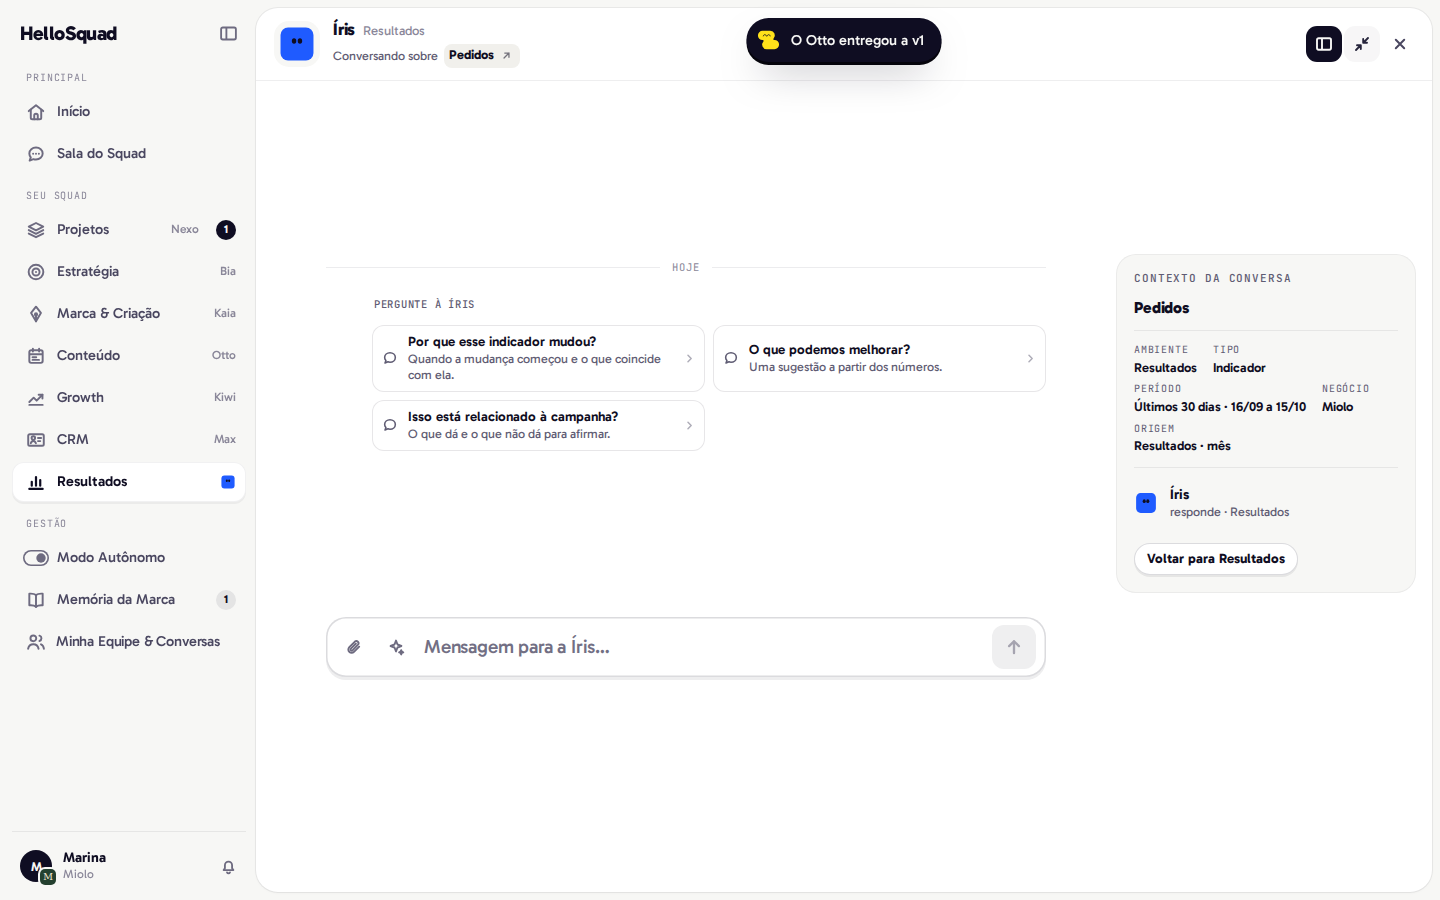
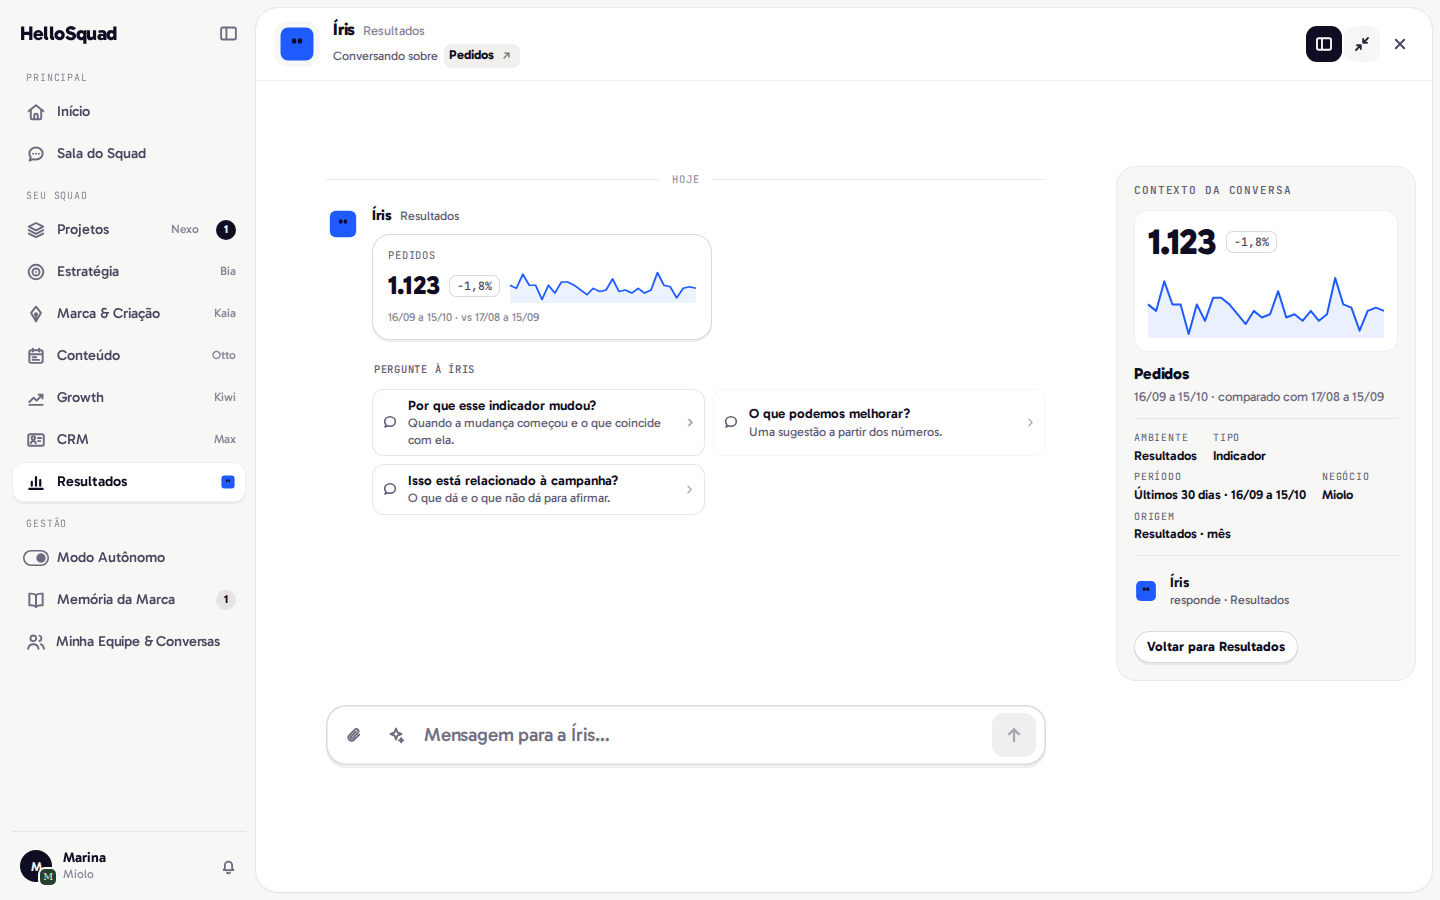
A2d: conversa do indicador abre com o número, a variação e a curva da série (P-09, P-10)

diff --git a/apps/web/components/env/results/ResultsEnvironment.tsx b/apps/web/components/env/results/ResultsEnvironment.tsx
@@ -17,6 +17,7 @@ import {
   PERIOD_DAYS,
   PERIODS,
   periodRanges,
+  pointsIn,
   seriesKey,
   summarize,
   type Summary,
@@ -114,6 +115,20 @@ function ResultsView({ business, series, last, analyses }: { business: string; s
   const talk = (s: MetricSeries) => {
     const title = L.label(s);
     const origin = t(`origin.${period}`);
+    // A2d (P-09/P-10): o número, a variação e a curva do período vão com a conversa, lidos da mesma série da página;
+    // sem número no período, a conversa abre sem o cartão (nunca um número inventado).
+    const sum = summaries.get(seriesKey(s));
+    const figure =
+      sum && sum.now !== null
+        ? {
+            value: L.num(sum.now),
+            delta: sum.variation === null ? null : L.signed(sum.variation),
+            up: sum.variation === null ? null : sum.variation >= 0,
+            points: pointsIn(s, current),
+            period: L.range(current.start, current.end),
+            previous: sum.daysBefore > 0 ? L.range(previous.start, previous.end) : null,
+          }
+        : undefined;
     const context: ConversationContextRef = {
       kind: "metric",
       label: title,
@@ -121,6 +136,7 @@ function ResultsView({ business, series, last, analyses }: { business: string; s
       period: periodText,
       origin,
       ref: { type: "metric", key: seriesKey(s), title, period: periodText, origin },
+      figure,
     };
     shell.openConversation({ conversationId: null, agent: "iris", context });
   };

diff --git a/apps/web/components/product/shell-context.tsx b/apps/web/components/product/shell-context.tsx
@@ -5,6 +5,7 @@ import type { AgentId } from "@hellosquad/ui";
 import { createContext, useContext } from "react";
 import type { RequestDelivery } from "@/lib/delivery-types";
 import type { ConversationMode, Layout } from "@/lib/product-layout";
+import type { MetricFigure } from "./conversation-format";
 
 /** Objeto da conversa na API (`ContextRef`, S1f/S2a): com ele, o painel cria ou reabre a conversa do objeto. */
 export type ApiContextRef = components["schemas"]["ContextRef"];
@@ -30,6 +31,8 @@ export type ConversationContextRef = {
    * reaproveitada; o pedido do catálogo, `capability`, abre uma por pedido, na primeira mensagem).
    */
   ref?: ApiContextRef;
+  /** Indicador (A2d, P-09/P-10): número, variação e curva do período, lidos da série (V4.6 `big`, `bigD`, `firstCard`). */
+  figure?: MetricFigure;
 };
 
 export type ConversationTarget = {

diff --git a/apps/web/components/env/results/metrics.ts b/apps/web/components/env/results/metrics.ts
@@ -38,6 +38,14 @@ function valuesByDay(s: MetricSeries): Map<number, number> {
   return out;
 }
 
+/** Valores diários de uma série dentro do período, na ordem (a curva do indicador na conversa, V4.6 `_spark`). */
+export function pointsIn(s: MetricSeries, range: Range): number[] {
+  return [...valuesByDay(s).entries()]
+    .filter(([d]) => d >= range.start && d <= range.end)
+    .sort((a, b) => a[0] - b[0])
+    .map(([, v]) => v);
+}
+
 /** Último dia com dado entre todas as séries (o fim do período, como `atualizado_ate` do worker). */
 export function lastDataDay(series: MetricSeries[]): number | null {
   let last: number | null = null;
